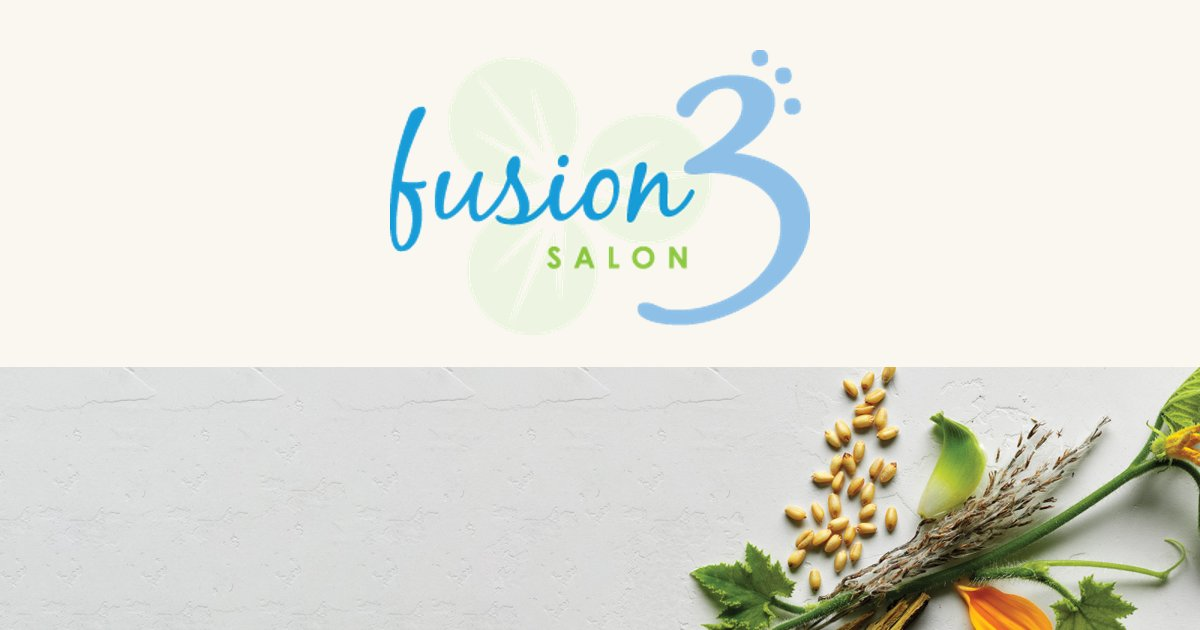
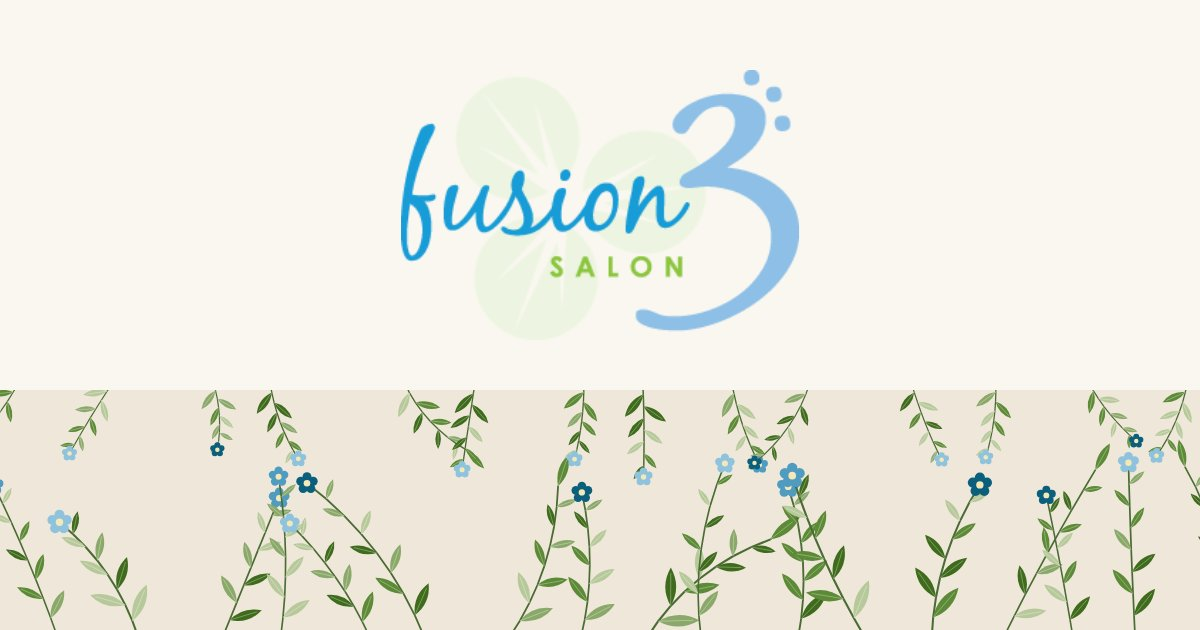
Replace all third-party/campaign photos with original botanical illustrations; strip archived blog images
Claude-Session: https://claude.ai/code/session_01UfAKf84csJi82kayYQQZK1

diff --git a/src/styles/global.css b/src/styles/global.css
@@ -50,13 +50,12 @@ a:hover { color: var(--color-brand-dark); }
 .card .card-link { margin-top: auto; font-weight: 600; }
 .card img { max-height: 120px; width: auto; margin-bottom: 1rem; }
 
-/* Page header band using the salon's banner photography */
-.page-hero { position: relative; background: var(--color-sand) center / cover no-repeat; padding: clamp(3rem, 8vw, 5.5rem) 0; }
-.page-hero::before { content: ""; position: absolute; inset: 0; background: linear-gradient(90deg, rgba(250,247,240,.96) 0%, rgba(250,247,240,.88) 45%, rgba(250,247,240,0) 80%); }
+/* Page header band with original botanical illustration */
+.page-hero { position: relative; background: var(--color-sand) url(/images/art/hero-corner.svg) right bottom / auto 100% no-repeat; padding: clamp(3rem, 8vw, 5.5rem) 0; overflow: hidden; }
 .page-hero .wrap { position: relative; }
 .page-hero h1 { margin-bottom: .3em; }
 .page-hero p { max-width: 36rem; font-size: 1.15rem; color: var(--color-muted); margin: 0; }
-@media (max-width: 700px) { .page-hero::before { background: rgba(250,247,240,.9); } }
+@media (max-width: 700px) { .page-hero { background-size: auto 60%; background-position: right -40px bottom; } .page-hero .wrap { padding-bottom: 3rem; } }
 
 .prose { max-width: 44rem; }
 .prose img { border-radius: var(--radius); margin: 1.5rem 0; }
